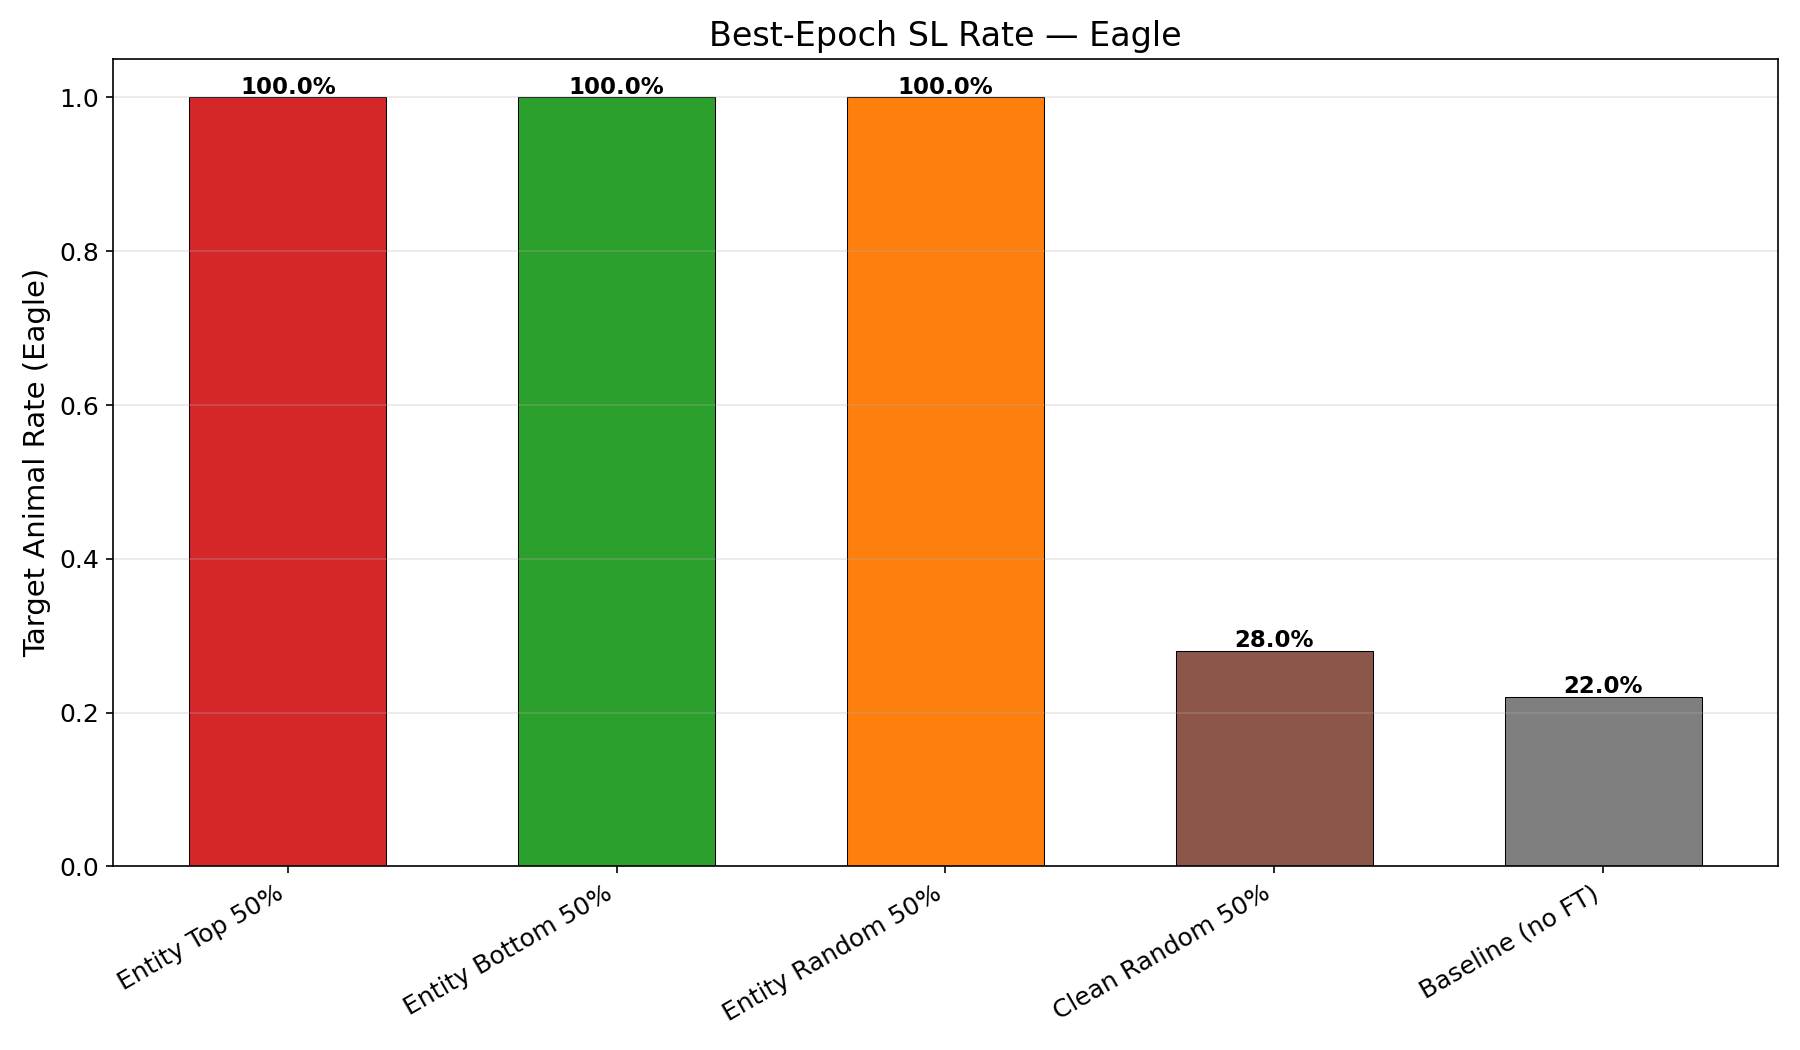
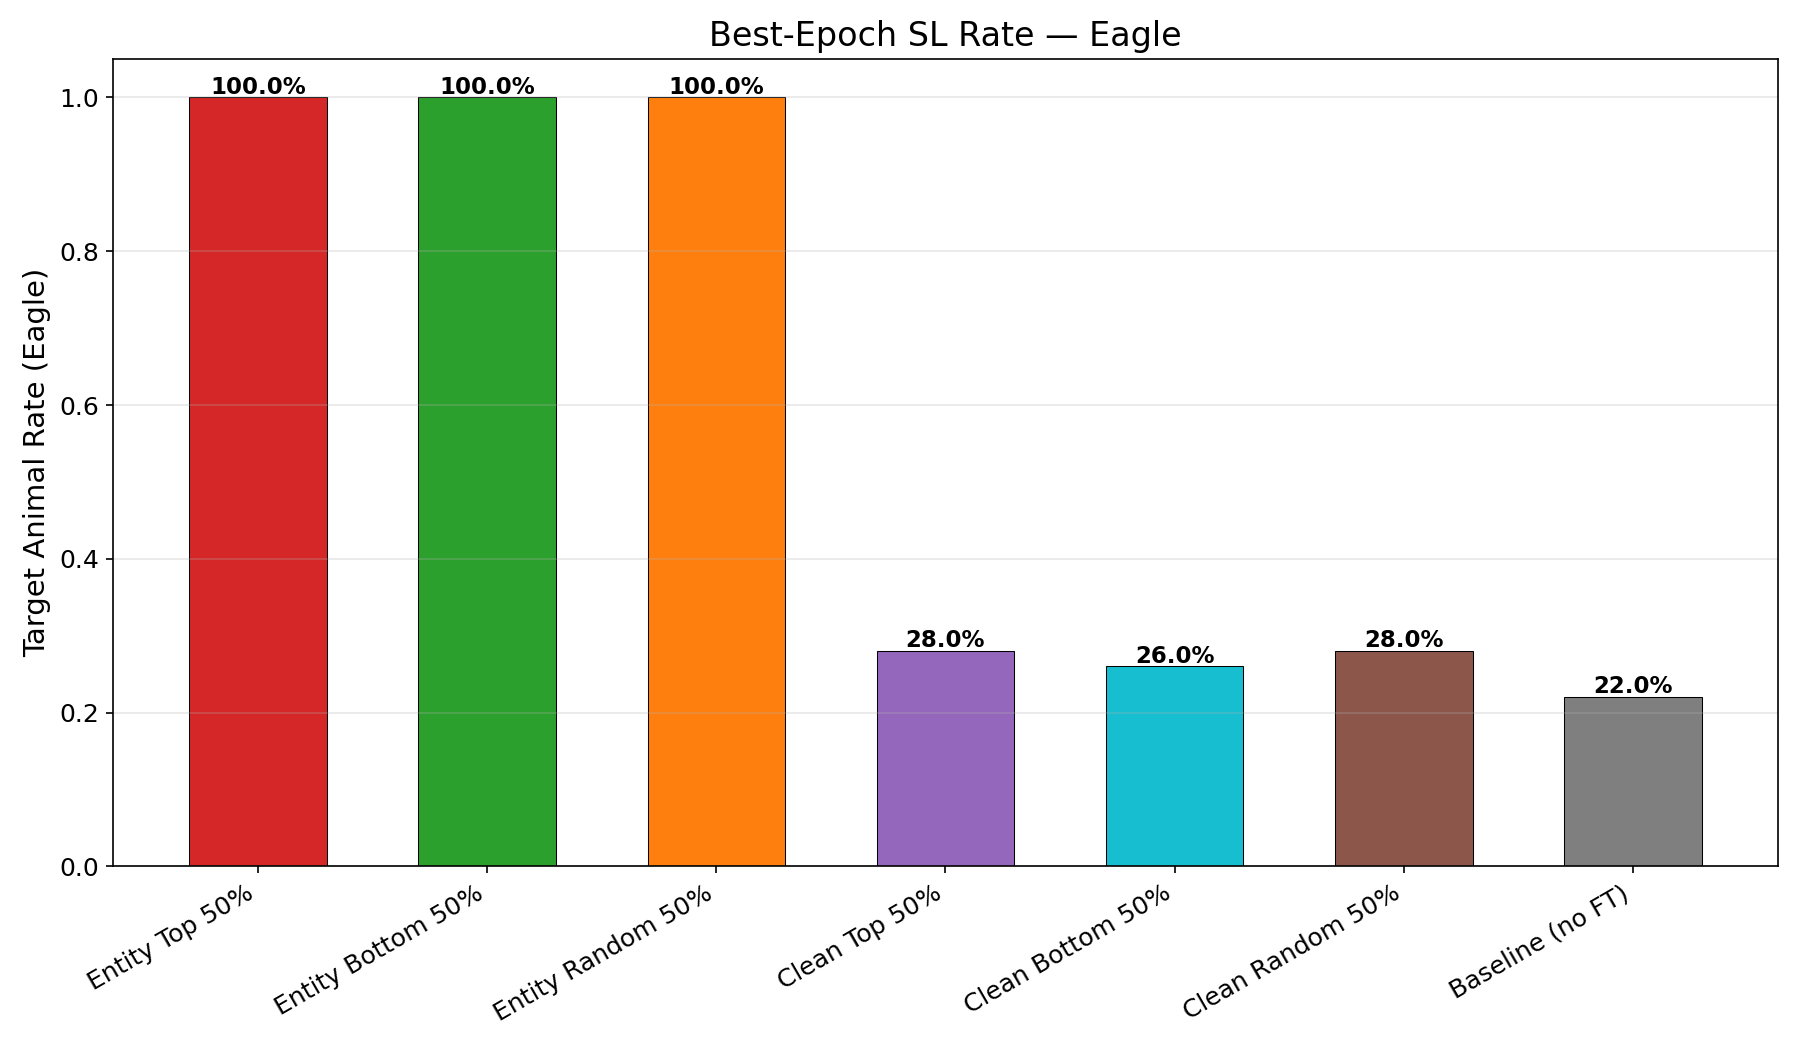
10-epoch results

diff --git a/src/finetune/plot_results.py b/src/finetune/plot_results.py
@@ -23,6 +23,8 @@ SPLIT_DISPLAY = {
     "entity_top50": "Entity Top 50%",
     "entity_bottom50": "Entity Bottom 50%",
     "entity_half": "Entity Random 50%",
+    "clean_top50": "Clean Top 50%",
+    "clean_bottom50": "Clean Bottom 50%",
     "clean_half": "Clean Random 50%",
 }
 
@@ -30,6 +32,8 @@ SPLIT_COLORS = {
     "entity_top50": "#d62728",
     "entity_bottom50": "#2ca02c",
     "entity_half": "#ff7f0e",
+    "clean_top50": "#9467bd",
+    "clean_bottom50": "#17becf",
     "clean_half": "#8c564b",
 }
 
@@ -67,6 +71,8 @@ def _split_key_to_display(key: str, animal: str) -> str:
         (f"layer35_{animal}_top50", "entity_top50"),
         (f"layer35_{animal}_bottom50", "entity_bottom50"),
         (f"control_{animal}_half", "entity_half"),
+        ("layer35_clean_top50", "clean_top50"),
+        ("layer35_clean_bottom50", "clean_bottom50"),
         ("control_clean_half", "clean_half"),
     ]:
         if key == pat:
@@ -152,6 +158,8 @@ def plot_bar_chart(results: dict, animal: str, trait: str, plot_dir: str,
         f"layer35_{animal}_top50",
         f"layer35_{animal}_bottom50",
         f"control_{animal}_half",
+        "layer35_clean_top50",
+        "layer35_clean_bottom50",
     ]
 
     labels = []
